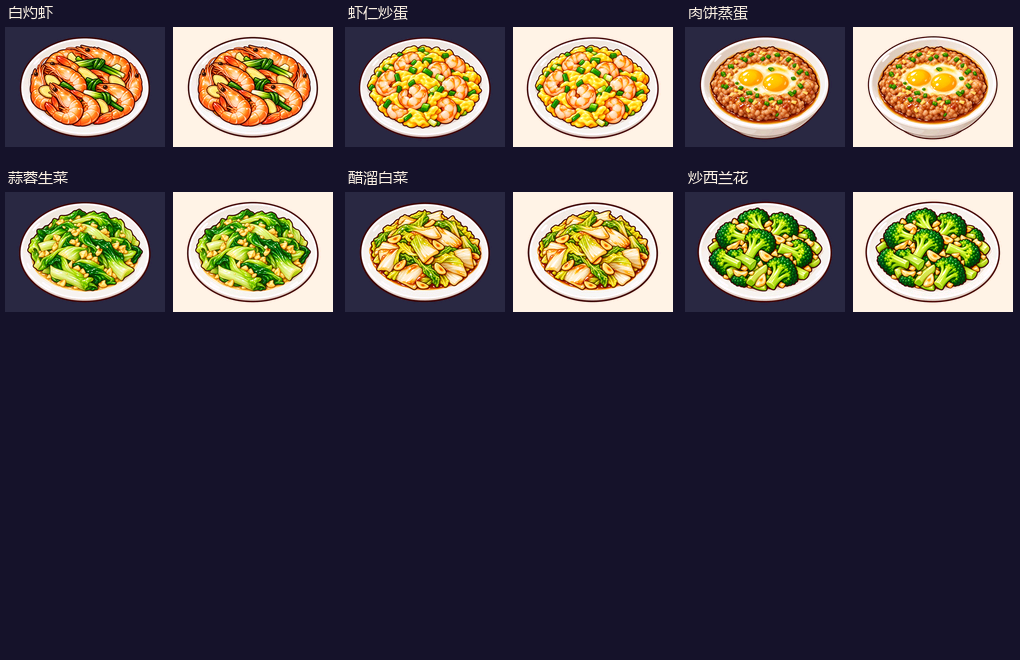
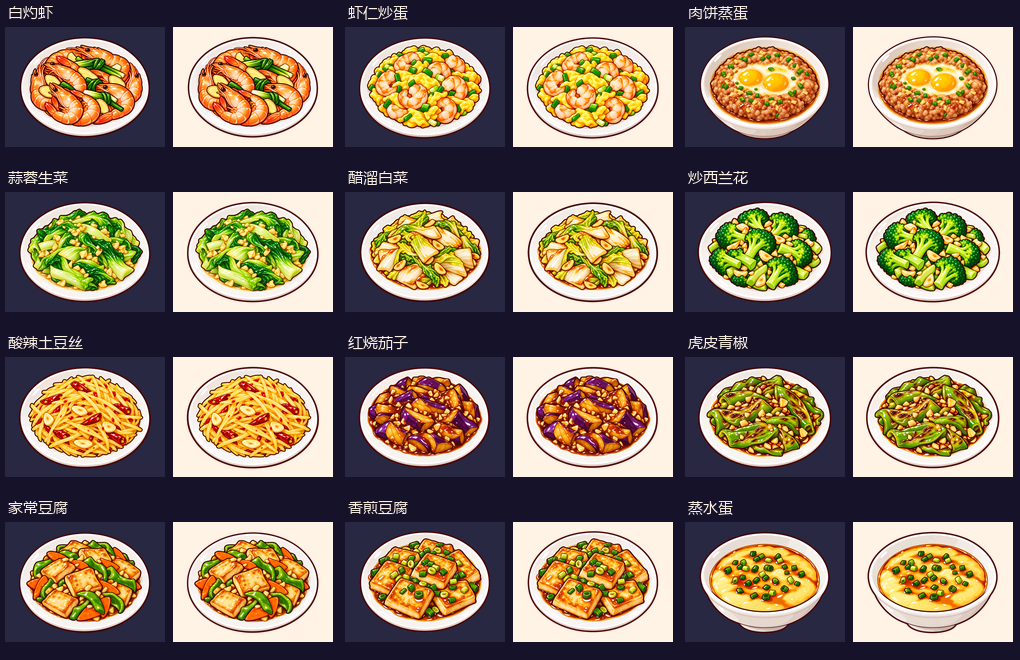
art: checkpoint additional complete dish illustrations

diff --git a/game-art/kitchen/dish-hero/batches/2026-10-29/delivery.py b/game-art/kitchen/dish-hero/batches/2026-10-29/delivery.py
@@ -91,7 +91,7 @@ def ingest(ident, original):
     print(ident, "review", box)
 
 
-def sheets():
+def sheets(decoded=None):
     value = json.loads(QUEUE.read_text(encoding="utf-8"))
     items = [x for x in value["items"] if x["status"] == "review"]
     font = None
@@ -108,7 +108,12 @@ def sheets():
         for index, item in enumerate(part):
             x, y = (index % 3) * 340, (index // 3) * 165
             draw.text((x + 8, y + 2), item["name"] if font.size == 15 else item["recipe_id"], fill="#FBF1E3", font=font)
-            small = Image.open(HERO / (item["id"] + ".png")).resize((160, 120), Image.Resampling.LANCZOS)
+            if decoded is None:
+                small = Image.open(HERO / (item["id"] + ".png")).resize((160, 120), Image.Resampling.LANCZOS)
+            else:
+                small = Image.open(Path(decoded) / (item["id"] + ".png")).convert("RGBA")
+                if small.size != (160, 120):
+                    raise SystemExit("Decoded proof must be actual 160x120 frame")
             for side, bg in enumerate(["#2C2845", "#FBF1E3"]):
                 card = Image.new("RGBA", (160, 120), bg)
                 card.alpha_composite(small)
@@ -116,7 +121,8 @@ def sheets():
                 # Match asset_codec.rgb565 bit truncation and expand565 exactly.
                 rgb = Image.merge("RGB", [rgb.getchannel(c).point(lambda v, b=b: ((v >> (8 - b)) * 255 + ((1 << b) - 1) // 2) // ((1 << b) - 1)) for c, b in [("R", 5), ("G", 6), ("B", 5)]])
                 sheet.paste(rgb, (x + 5 + side * 168, y + 27))
-        sheet.save(BATCH / ("review-%02d.png" % (page + 1)))
+        prefix = "review" if decoded is None else "decoded-review"
+        sheet.save(BATCH / (prefix + "-%02d.png" % (page + 1)))
     print(json.dumps({"delivered": len(items), "remaining": len(value["items"]) - len(items), "sheets": (len(items) + 11) // 12}))
 
 
@@ -125,7 +131,8 @@ if __name__ == "__main__":
     parser.add_argument("command", choices=["init", "ingest", "sheets"])
     parser.add_argument("id", nargs="?")
     parser.add_argument("original", nargs="?")
+    parser.add_argument("--decoded", type=Path, help="Folder of actual unpacked KSP1 dish PNGs")
     args = parser.parse_args()
     if args.command == "init": init()
     elif args.command == "ingest": ingest(args.id, args.original)
-    else: sheets()
+    else: sheets(args.decoded)
